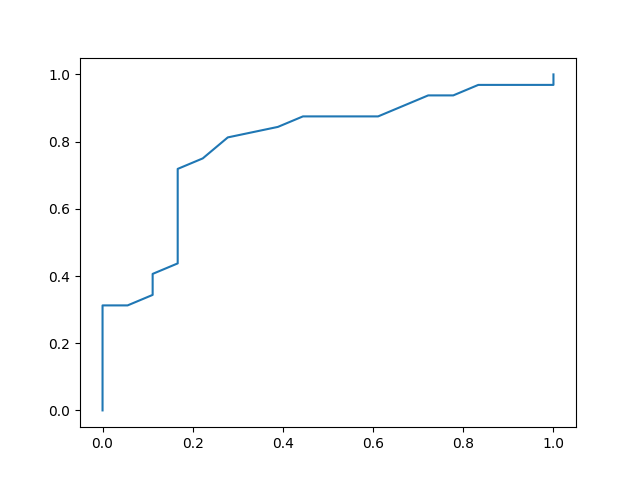
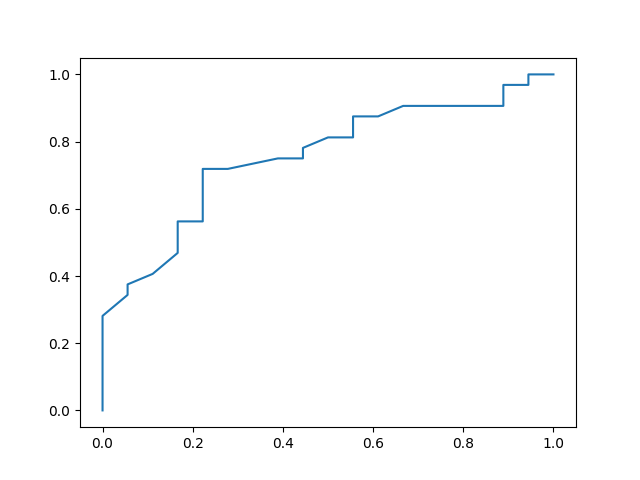
adding ICA features

diff --git a/pipeline/regions.py b/pipeline/regions.py
@@ -12,18 +12,18 @@ regions = {
         "Temporal/Right": [7, 12, 17],
         "Posterior": [14, 16, 18, 19, 20]
     },
-    'complexity_128':
-    {'F': [0, 1, 2, 3, 4, 5, 6, 7, 32, 33, 34, 35, 36, 37, 38, 39, 72, 73, 74, 96, 97, 98, 99],
-     'T': [8, 12, 13, 19, 43, 58, 60, 64, 66, 79, 83, 100, 104, 105, 110, 114],
-     'C': [9, 10, 14, 15, 16, 40, 41, 42, 44, 45, 75, 76, 77, 80, 81, 101, 102, 106, 107],
-     'RT': [11, 17, 18, 22, 46, 59, 61, 65, 67, 78, 82, 86, 103, 108, 109, 113, 117],
-     'P': [20, 21, 23, 24, 25, 26, 27, 28, 47, 48, 49, 50, 51, 52, 53, 54, 55, 56, 57, 62, 63, 70, 71, 84, 85, 87, 88, 89, 90, 91, 92, 111, 112, 115, 116, 118, 119, 120, 121, 123, 124],
-     'O': [29, 30, 31, 68, 69, 93, 94, 95, 122, 125, 126, 127]},
-    'synchrony_128':
-    {'F': [0, 1, 2, 4, 6, 32, 33, 34, 35, 36, 37, 38, 40, 42, 72, 73, 74, 75, 76, 77, 96, 97, 98, 99],
-     'LT': [3, 8, 12, 13, 19, 23, 43, 58, 60, 64, 66, 68, 70, 79, 100, 104, 105, 110, 114, 118],
-     'C': [5, 9, 10, 14, 15, 16, 20, 21, 25, 41, 44, 45, 48, 80, 81, 84, 85, 101, 102, 106, 107, 111, 112, 115, 116],
-     'RT': [7, 11, 17, 18, 22, 27, 39, 46, 59, 61, 65, 67, 69, 71, 78, 82, 103, 108, 109, 113, 117, 121],
-     'P': [24, 26, 28, 29, 30, 31, 47, 49, 50, 51, 52, 53, 54, 55, 56, 57, 62, 63, 83, 86, 87, 88, 89, 90, 91, 92, 93, 94, 95, 119, 120, 122, 123, 124, 125, 126, 127]}
+    'complexity_128': {
+        'F': [0, 1, 2, 3, 4, 5, 6, 7, 32, 33, 34, 35, 36, 37, 38, 39, 72, 73, 74, 96, 97, 98, 99],
+        'T': [8, 12, 13, 19, 43, 58, 60, 64, 66, 79, 83, 100, 104, 105, 110, 114],
+        'C': [9, 10, 14, 15, 16, 40, 41, 42, 44, 45, 75, 76, 77, 80, 81, 101, 102, 106, 107],
+        'RT': [11, 17, 18, 22, 46, 59, 61, 65, 67, 78, 82, 86, 103, 108, 109, 113, 117],
+        'P': [20, 21, 23, 24, 25, 26, 27, 28, 47, 48, 49, 50, 51, 52, 53, 54, 55, 56, 57, 62, 63, 70, 71, 84, 85, 87, 88, 89, 90, 91, 92, 111, 112, 115, 116, 118, 119, 120, 121, 123, 124],
+        'O': [29, 30, 31, 68, 69, 93, 94, 95, 122, 125, 126, 127]},
+    'synchrony_128': {
+        'F': [0, 1, 2, 4, 6, 32, 33, 34, 35, 36, 37, 38, 40, 42, 72, 73, 74, 75, 76, 77, 96, 97, 98, 99],
+        'LT': [3, 8, 12, 13, 19, 23, 43, 58, 60, 64, 66, 68, 70, 79, 100, 104, 105, 110, 114, 118],
+        'C': [5, 9, 10, 14, 15, 16, 20, 21, 25, 41, 44, 45, 48, 80, 81, 84, 85, 101, 102, 106, 107, 111, 112, 115, 116],
+        'RT': [7, 11, 17, 18, 22, 27, 39, 46, 59, 61, 65, 67, 69, 71, 78, 82, 103, 108, 109, 113, 117, 121],
+        'P': [24, 26, 28, 29, 30, 31, 47, 49, 50, 51, 52, 53, 54, 55, 56, 57, 62, 63, 83, 86, 87, 88, 89, 90, 91, 92, 93, 94, 95, 119, 120, 122, 123, 124, 125, 126, 127]}
 
 }

diff --git a/pipeline/ICA_features.py b/pipeline/ICA_features.py
@@ -1,0 +1,37 @@
+import pandas as pd
+from run_regionalization import get_regionalized_header
+from regions import regions
+import argparse
+from scipy import signal
+import numpy as np
+from sklearn.decomposition import FastICA
+import sys
+np.random.seed(0)
+np.set_printoptions(threshold=sys.maxsize)
+
+parser = argparse.ArgumentParser(description='ICA on features within regions')
+parser.add_argument(
+    '-fs', '--feature_set', help='feature file to find ICA\'d regions of')
+parser.add_argument(
+    '-r', '--region', help='name of region schema in regions.py to use')
+args = parser.parse_args()
+
+filename = args.feature_set
+schema = args.region
+out_filename = filename.split('.')[0]+'_ica_'+schema+'.csv'
+
+in_df = pd.read_csv(filename)
+pre_ica = in_df.drop(
+    columns=['instance code', 'patient num', 'instance num', 'class']).values
+
+schema_header = get_regionalized_header(schema)
+post_ica = np.zeros((pre_ica.shape[0], len(schema_header)))
+for (i, region) in enumerate(schema_header):
+    region_columns = pre_ica[:, regions[schema][region]]
+    ica = FastICA(n_components=1)
+    post_ica[:, i] = ica.fit_transform(region_columns)[:, 0]
+
+ica_df = pd.DataFrame(data=post_ica, columns=schema_header).join(
+    in_df[['instance code', 'patient num', 'instance num', 'class']])
+ica_df.to_csv(out_filename, index=False)
+print(out_filename)

diff --git a/pipeline/pipeline2.py b/pipeline/pipeline2.py
@@ -18,7 +18,7 @@ import domFreq_features
 import domFreqVar_features
 # import feature_steepness
 import FSL_features
-from Feature_settings import fsl_settings, pearson_settings
+from Feature_settings import fsl_settings, pearson_settings, domfreq_settings
 import pac_features
 from record_results import get_results, write_result_list_to_results_file, print_results
 import random
@@ -79,7 +79,8 @@ DATA_TYPE_TO_FOLDERS = {
     'NC_theta': ('New_Castle_Data/HCFN50_theta', 'New_Castle_Data/ADFN50_theta'),
     'NCFN50-20_alpha': ('New_Castle_Data/HCFN50_alpha', 'New_Castle_Data/ADalpha_above20'),
     'NC_PCA': ('New_Castle_Data/HCFN50_pca', 'New_Castle_Data/ADFN50_pca'),
-    '1024': ('New_Castle_Data/HC_1024', 'New_Castle_Data/AD_1024')
+    '1024': ('New_Castle_Data/HC_1024', 'New_Castle_Data/AD_1024'),
+    'NC_128': ('New_Castle_Data/HC_128elec', 'New_Castle_Data/AD_128elec')
 }
 
 RESULTS_FILENAME = 'pipeline_results.csv'
@@ -120,7 +121,7 @@ config = {
 CONFIG_FEATURES = {
     'FSL': fsl_settings(),
     'Pearson': pearson_settings(),
-    'DomFreq': [{}],
+    'DomFreq': domfreq_settings(),
     'Granger': [{}],
 }
 config_features = [{}]

diff --git a/pipeline/Feature_settings.py b/pipeline/Feature_settings.py
@@ -32,7 +32,7 @@ def fsl_settings():
         'x': 200,
         'w': 2000,
         'compress': False,
-        'pairwise_regionalization': 'synchrony'
+        'pairwise_regionalization': 'synchrony_128'
     }
     ]
     return optimal
@@ -90,3 +90,12 @@ def pearson_settings():
         'regions': False
     }
     return [PEARSON_1]
+
+def domfreq_settings():
+    lower_bounds = [2,4,5]
+    upper_bounds = [10,12,14,16]
+    configs = []
+    for lower_bound in lower_bounds:
+        for upper_bound in upper_bounds:
+            configs.append({'lower_bound':lower_bound,'upper_bound':upper_bound})
+    return configs

diff --git a/pipeline/gridsearch.py b/pipeline/gridsearch.py
@@ -7,9 +7,9 @@ svc_params = {'kernel': ['rbf'], 'gamma': [10,1,1e-1,1e-2],
                      'probability':[True]
                      }
 
-random_forest_params = {'bootstrap': [True, False],
-                    'max_depth': [50,100, None],
-                    'max_features': ['auto', 'sqrt'],
+random_forest_params = {'bootstrap': [True],
+                    'max_depth': [None],
+                    'max_features': ['auto'],
                     'min_samples_leaf': [1, 4],
                     'min_samples_split': [2, 10],
                     'n_estimators': [100, 600]}

diff --git a/pipeline/average_heatmap.py b/pipeline/average_heatmap.py
@@ -11,7 +11,6 @@ def average_heatmap(correlation_matrix,regionalization):
     for i in range(len(sorted_region_names)):
         for j in range(len(sorted_region_names)):
             if i>=j:
-                print(sorted_region_names[i],' ',sorted_region_names[j])
                 avg = _add_correlation(corre_regions[sorted_region_names[i]],corre_regions[sorted_region_names[j]],correlation_matrix)
                 regionalized_matrix[i][j] = avg
                 regionalized_matrix[j][i] = avg

diff --git a/pipeline/record_results.py b/pipeline/record_results.py
@@ -217,6 +217,7 @@ def _compute_group_pred(clf, df, num_folds, scoring='accuracy', nn_model=[]):
     if nn_model == []:
         for train, test in gkf.split(X, y, groups=groups):
             clf.fit(X[train], y[train])
+            # print(clf.best_params_)
             y_pred[count:count+len(test)] = clf.predict(X[test])
             y_groups[count:count+len(test)] = groups[test]
             if "keras" in str(clf):

diff --git a/pipeline/domFreq_features.py b/pipeline/domFreq_features.py
@@ -33,7 +33,7 @@ def extractFeatures(time_series, config_feature):
         yf = fft(y)
         yf = yf[0:int((N+1)/2)]  # get useable half of the fft vector
         freq = np.arange(0, Fs/2, Fs/N)
-        yf_between = yf[(freq >= 3) & (freq <= 14)]
+        yf_between = yf[(freq >= config_feature['lower_bound']) & (freq <= config_feature['upper_bound'])]
 
         #max_index = np.argmax(yf_above1)
 
